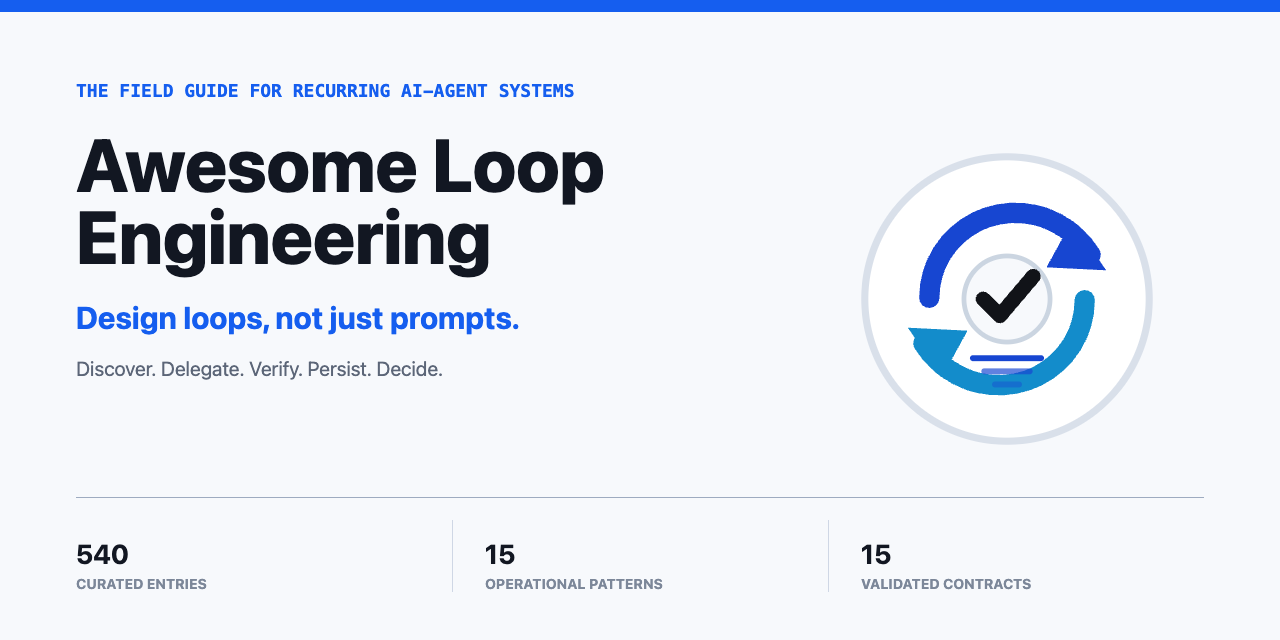
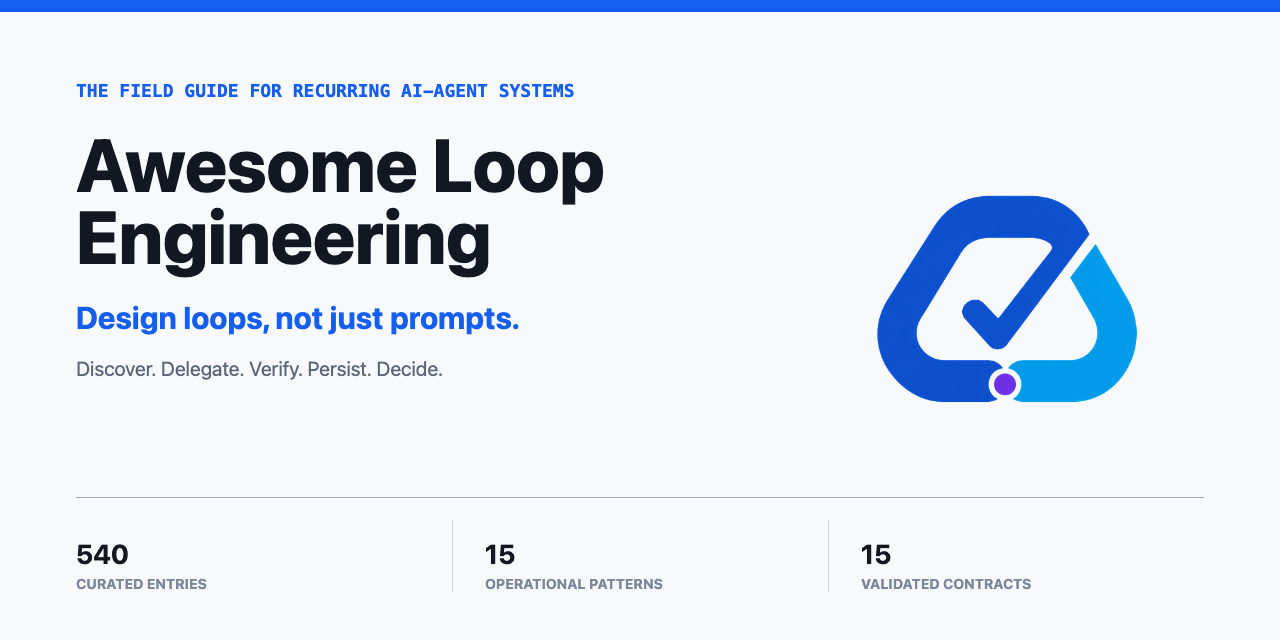
Refresh the Loop Engineering brand mark

Changed region(s): [[0.6562, 0.2188, 0.9062, 0.7188], [0.8125, 0.25, 0.8438, 0.2812]]

diff --git a/docs/index.html b/docs/index.html
@@ -8,7 +8,8 @@
     <meta name="robots" content="index,follow">
     <meta name="author" content="Chaoyue He">
     <link rel="canonical" href="https://chaoyue0307.github.io/awesome-loop-engineering/">
-    <link rel="icon" href="assets/awesome-loop-engineering-logo.svg" type="image/svg+xml">
+    <link rel="icon" href="assets/favicon-32.png" type="image/png" sizes="32x32">
+    <link rel="apple-touch-icon" href="assets/apple-touch-icon.png" sizes="180x180">
     <link rel="preconnect" href="https://fonts.googleapis.com">
     <link rel="preconnect" href="https://fonts.gstatic.com" crossorigin>
     <link href="https://fonts.googleapis.com/css2?family=IBM+Plex+Mono:wght@500;600&amp;family=Inter:wght@400;500;600;700;800&amp;display=swap" rel="stylesheet">
@@ -16,14 +17,14 @@
     <meta property="og:title" content="Awesome Loop Engineering">
     <meta property="og:description" content="Explore 540 audited resources, 15 operational patterns, reusable loop contracts, and runnable examples for recurring AI-agent systems.">
     <meta property="og:url" content="https://chaoyue0307.github.io/awesome-loop-engineering/">
-    <meta property="og:image" content="https://chaoyue0307.github.io/awesome-loop-engineering/assets/social-preview.png?v=3">
+    <meta property="og:image" content="https://chaoyue0307.github.io/awesome-loop-engineering/assets/social-preview.png?v=4">
     <meta property="og:image:width" content="1280">
     <meta property="og:image:height" content="640">
     <meta property="og:image:alt" content="Awesome Loop Engineering: design loops, not just prompts.">
     <meta name="twitter:card" content="summary_large_image">
     <meta name="twitter:title" content="Awesome Loop Engineering">
     <meta name="twitter:description" content="540 audited resources and reusable patterns for designing recurring AI-agent systems above prompt, context, and harness engineering.">
-    <meta name="twitter:image" content="https://chaoyue0307.github.io/awesome-loop-engineering/assets/social-preview.png?v=3">
+    <meta name="twitter:image" content="https://chaoyue0307.github.io/awesome-loop-engineering/assets/social-preview.png?v=4">
     <link rel="alternate" type="application/atom+xml" title="Awesome Loop Engineering releases" href="https://github.com/ChaoYue0307/awesome-loop-engineering/releases.atom">
     <link rel="alternate" type="application/atom+xml" title="Awesome Loop Engineering commits" href="https://github.com/ChaoYue0307/awesome-loop-engineering/commits/main.atom">
     <style>
@@ -786,7 +787,8 @@
           "https://huggingface.co/datasets/cy0307/awesome-loop-engineering"
         ],
         "license": "https://creativecommons.org/publicdomain/zero/1.0/",
-        "image": "https://chaoyue0307.github.io/awesome-loop-engineering/assets/social-preview.png?v=3",
+        "image": "https://chaoyue0307.github.io/awesome-loop-engineering/assets/social-preview.png?v=4",
+        "logo": "https://chaoyue0307.github.io/awesome-loop-engineering/assets/awesome-loop-engineering-logo.png",
         "author": { "@type": "Person", "name": "Chaoyue He" }
       }
     </script>
@@ -873,7 +875,7 @@
     <header class="site">
       <div class="wrap nav">
         <a class="brand" href="#top" aria-label="Awesome Loop Engineering, back to top">
-          <img class="logo" src="assets/awesome-loop-engineering-logo.svg" alt="" width="32" height="32">
+          <img class="logo" src="assets/awesome-loop-engineering-logo.png" alt="" width="32" height="32">
           <span class="brand-text">Loop Engineering</span>
         </a>
         <nav class="links" id="primary-nav" aria-label="Primary">

diff --git a/meta/social-preview.html b/meta/social-preview.html
@@ -69,7 +69,7 @@
         <p class="support">Discover. Delegate. Verify. Persist. Decide.</p>
       </div>
       <div class="mark">
-        <img src="../assets/awesome-loop-engineering-logo.svg" alt="">
+        <img src="../assets/awesome-loop-engineering-logo.png" alt="">
       </div>
       <div class="stats">
         <div class="stat"><b>540</b><span>Curated entries</span></div>

diff --git a/scripts/build_brand_assets.py b/scripts/build_brand_assets.py
@@ -1,0 +1,85 @@
+#!/usr/bin/env python3
+"""Build production PNG variants from the transparent ChatGPT Image logo master."""
+
+import argparse
+from io import BytesIO
+from pathlib import Path
+
+from PIL import Image, ImageChops
+
+
+ROOT = Path(__file__).resolve().parents[1]
+MASTER = ROOT / "assets" / "awesome-loop-engineering-logo-master.png"
+OUTPUTS = {
+    "awesome-loop-engineering-logo.png": 512,
+    "awesome-loop-engineering-logo-192.png": 192,
+    "apple-touch-icon.png": 180,
+    "favicon-32.png": 32,
+}
+
+
+def prepare_mark(image: Image.Image) -> Image.Image:
+    rgba = image.convert("RGBA")
+    alpha = rgba.getchannel("A")
+    bbox = alpha.point(lambda value: 255 if value > 8 else 0).getbbox()
+    if bbox is None:
+        raise ValueError(f"Logo master has no visible pixels: {MASTER}")
+
+    cropped = rgba.crop(bbox)
+    padding = round(max(cropped.size) * 0.09)
+    side = max(cropped.size) + 2 * padding
+    canvas = Image.new("RGBA", (side, side), (0, 0, 0, 0))
+    offset = ((side - cropped.width) // 2, (side - cropped.height) // 2)
+    canvas.alpha_composite(cropped, offset)
+    return canvas
+
+
+def encode_png(image: Image.Image) -> bytes:
+    buffer = BytesIO()
+    image.save(buffer, format="PNG", optimize=True)
+    return buffer.getvalue()
+
+
+def parse_args() -> argparse.Namespace:
+    parser = argparse.ArgumentParser(description=__doc__)
+    parser.add_argument(
+        "--check",
+        action="store_true",
+        help="Fail when committed brand variants differ from the generated output.",
+    )
+    return parser.parse_args()
+
+
+def main() -> None:
+    args = parse_args()
+    prepared = prepare_mark(Image.open(MASTER))
+    destinations = (ROOT / "assets", ROOT / "docs" / "assets")
+    stale: list[Path] = []
+
+    for filename, size in OUTPUTS.items():
+        output = prepared.resize((size, size), Image.Resampling.LANCZOS)
+        payload = encode_png(output)
+        for destination in destinations:
+            destination.mkdir(parents=True, exist_ok=True)
+            path = destination / filename
+            if args.check:
+                if not path.exists():
+                    stale.append(path)
+                    continue
+                current = Image.open(path).convert("RGBA")
+                if current.size != output.size or ImageChops.difference(current, output).getbbox():
+                    stale.append(path)
+                continue
+            path.write_bytes(payload)
+            print(f"wrote {path.relative_to(ROOT)} ({size}x{size})")
+
+    if stale:
+        formatted = "\n".join(f"- {path.relative_to(ROOT)}" for path in stale)
+        raise SystemExit(f"Brand assets are stale; run scripts/build_brand_assets.py:\n{formatted}")
+
+    if args.check:
+        print(f"Brand assets are current ({len(OUTPUTS) * len(destinations)} files).")
+
+
+if __name__ == "__main__":
+    main()

diff --git a/assets/BRAND.md b/assets/BRAND.md
@@ -1,0 +1,36 @@
+# Brand System
+
+## Mark
+
+The Awesome Loop Engineering mark combines three ideas in one continuous symbol:
+
+- **Loop:** the cobalt and cyan paths form a recurring operating cycle.
+- **Verification:** the return path resolves into a check inside the negative space.
+- **Persisted state:** the violet checkpoint marks the handoff between one pass and the next.
+
+The mark was generated with ChatGPT Image and productionized as transparent PNG assets. Use
+`awesome-loop-engineering-logo.png` for general display, `awesome-loop-engineering-logo-192.png`
+for compact profile surfaces, `apple-touch-icon.png` for saved web apps, and `favicon-32.png` for
+browser tabs. The high-resolution transparent source is
+`awesome-loop-engineering-logo-master.png`.
+
+## Color
+
+| Role | Color |
+|---|---|
+| Recurring path | Cobalt `#1D4ED8` |
+| Return path | Cyan `#0EA5E9` |
+| State checkpoint | Violet `#7C3AED` |
+| Primary text | Ink `#111827` |
+| Light surface | Paper `#F7F9FC` |
+
+## Usage
+
+- Keep clear space around the mark equal to at least 9% of its width.
+- Use the supplied assets rather than cropping or redrawing the symbol.
+- Do not add an enclosing circle, glow, drop shadow, or decorative state lines.
+- Preserve the cobalt-to-cyan direction and violet checkpoint.
+- Use the full project name in adjacent text; the mark does not contain a monogram.
+
+The README cover remains a separate editorial illustration. The social preview uses the mark as
+part of a composed 1280x640 sharing card and should not be substituted for the README cover.

diff --git a/assets/README.md b/assets/README.md
@@ -3,7 +3,11 @@
 This directory contains visual assets used by the repository README, GitHub Pages landing page, and social previews.
 
 - `awesome-loop-engineering-cover.png` - Wide README and repo-card cover image. It visualizes the Prompt, Context, Harness, and Loop stack.
-- `awesome-loop-engineering-logo.svg` - Logo mark used by the GitHub Pages site (favicon and header brand).
+- `awesome-loop-engineering-logo-master.png` - High-resolution transparent ChatGPT Image source for the primary mark.
+- `awesome-loop-engineering-logo.png` - Production 512px mark used by the README, website, and Hugging Face card.
+- `awesome-loop-engineering-logo-192.png` - Compact profile and application icon.
+- `apple-touch-icon.png` and `favicon-32.png` - Web app and browser icon variants.
+- `BRAND.md` - Mark rationale, palette, clear-space rules, and usage guidance.
 - `loop-engineering-stack.png` - ChatGPT Image-generated editorial stack showing how Loop Engineering governs prompt, context, and harness engineering over time.
 - `loop-engineering-stack.svg` - Legacy vector source retained for lightweight and editable reuse.
 - `loop-contract-cards.svg` - Visual card grid for the Loop Contract: objective, trigger, intake, workspace, context, delegation, verification, state, budget, escalation, and exit.

diff --git a/meta/hf_card_body.md b/meta/hf_card_body.md
@@ -1,5 +1,5 @@
 <p align="center">
-  <a href="https://chaoyue0307.github.io/awesome-loop-engineering/"><img src="assets/awesome-loop-engineering-logo.svg" alt="Visit the Awesome Loop Engineering website" width="128"></a>
+  <a href="https://chaoyue0307.github.io/awesome-loop-engineering/"><img src="assets/awesome-loop-engineering-logo.png" alt="Visit the Awesome Loop Engineering website" width="128"></a>
 </p>
 
 <h1 align="center">Awesome Loop Engineering Dataset</h1>

diff --git a/README.md b/README.md
@@ -1,5 +1,5 @@
 <p align="center">
-  <a href="https://chaoyue0307.github.io/awesome-loop-engineering/"><img src="assets/awesome-loop-engineering-logo.svg" alt="Visit the Awesome Loop Engineering website" width="144"></a>
+  <a href="https://chaoyue0307.github.io/awesome-loop-engineering/"><img src="assets/awesome-loop-engineering-logo.png" alt="Visit the Awesome Loop Engineering website" width="144"></a>
 </p>
 
 <h1 align="center">Awesome Loop Engineering</h1>
